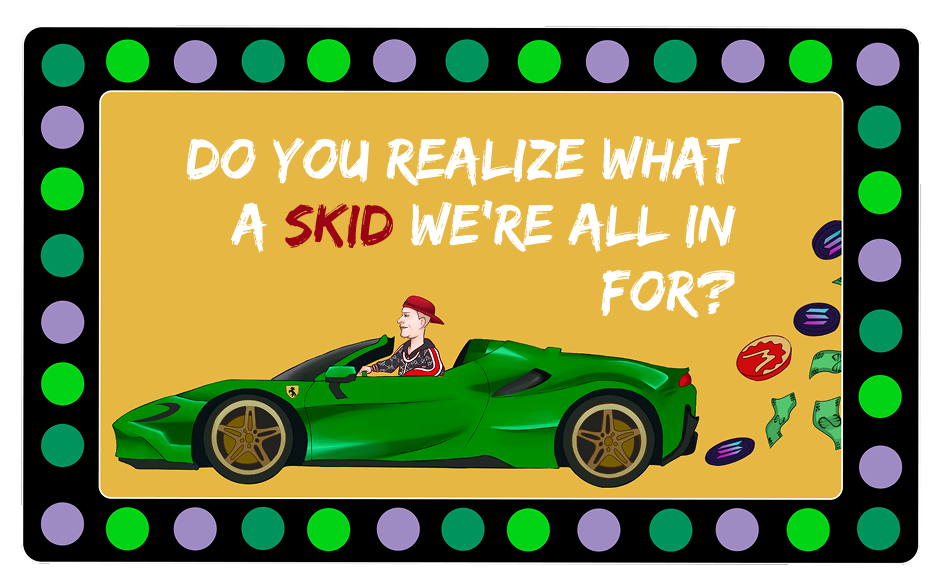
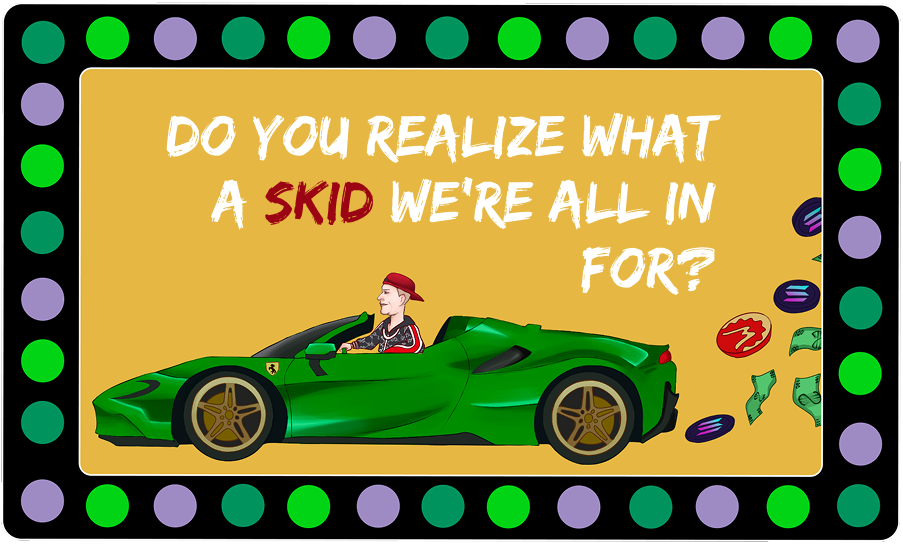
первый экран

diff --git a/css/main.css b/css/main.css
@@ -680,7 +680,7 @@ body._lock {
 }
 @media (max-width: 40em) {
   .hero__container {
-    padding-top: 6.25rem;
+    padding-top: 5.625rem;
     padding-bottom: 0.625rem;
     height: 100vh;
     height: 100svh;
@@ -693,9 +693,9 @@ body._lock {
     flex-direction: column;
   }
 }
-@media (max-width: 23em) {
+@media (max-width: 23.4375em) {
   .hero__container {
-    padding-top: 5.625rem;
+    padding-top: 5rem;
   }
 }
 .hero__main {
@@ -735,7 +735,7 @@ body._lock {
     margin-bottom: 0.625rem;
   }
 }
-@media (max-width: 23.125em) {
+@media (max-width: 23.4375em) {
   .hero__title {
     font-size: 1.875rem;
   }
@@ -819,13 +819,19 @@ body._lock {
 @media (max-width: 40em) {
   .hero__image {
     width: auto;
-    height: 100%;
+    height: 90%;
     right: 50%;
     -webkit-transform: translate(50%, 0px);
     -ms-transform: translate(50%, 0px);
     transform: translate(50%, 0px);
     top: -1.5625rem;
     z-index: -1;
+  }
+}
+@media (max-width: 40em) and (max-width: 23.4375em) {
+  .hero__image {
+    height: 85%;
+    top: -1.25rem;
   }
 }
 .hero__image img {
@@ -1001,14 +1007,19 @@ body._lock {
 }
 @media (max-width: 40em) {
   .funding-progress__timer {
+    font-size: 2.25rem;
     -webkit-box-pack: center;
     -ms-flex-pack: center;
     justify-content: center;
   }
 }
-@media (max-width: 23.75em) {
+@media (max-width: 23.4375em) {
   .funding-progress__timer {
-    font-size: 2.25rem;
+    margin-bottom: 1.125rem;
+    font-size: 1.875rem;
+    -webkit-box-pack: center;
+    -ms-flex-pack: center;
+    justify-content: center;
   }
 }
 .funding-progress__progress-bar {
@@ -1148,14 +1159,21 @@ body._lock {
 }
 @media (max-width: 40em) {
   .about__item-image--1 {
-    margin-left: -0.9375rem;
-    margin-right: -0.9375rem;
     -webkit-box-flex: 0;
     -ms-flex: 0 1 auto;
     flex: 0 1 auto;
-    width: calc(100% + 1.875rem);
+    width: 100%;
     height: 28.125rem;
+    border-radius: 8px;
+    overflow: hidden;
   }
+}
+@media (max-width: 40em) and (max-width: 28.125em) {
+  .about__item-image--1 {
+    height: 18.75rem;
+  }
+}
+@media (max-width: 40em) {
   .about__item-image--1 img {
     width: 100%;
     height: 100%;
